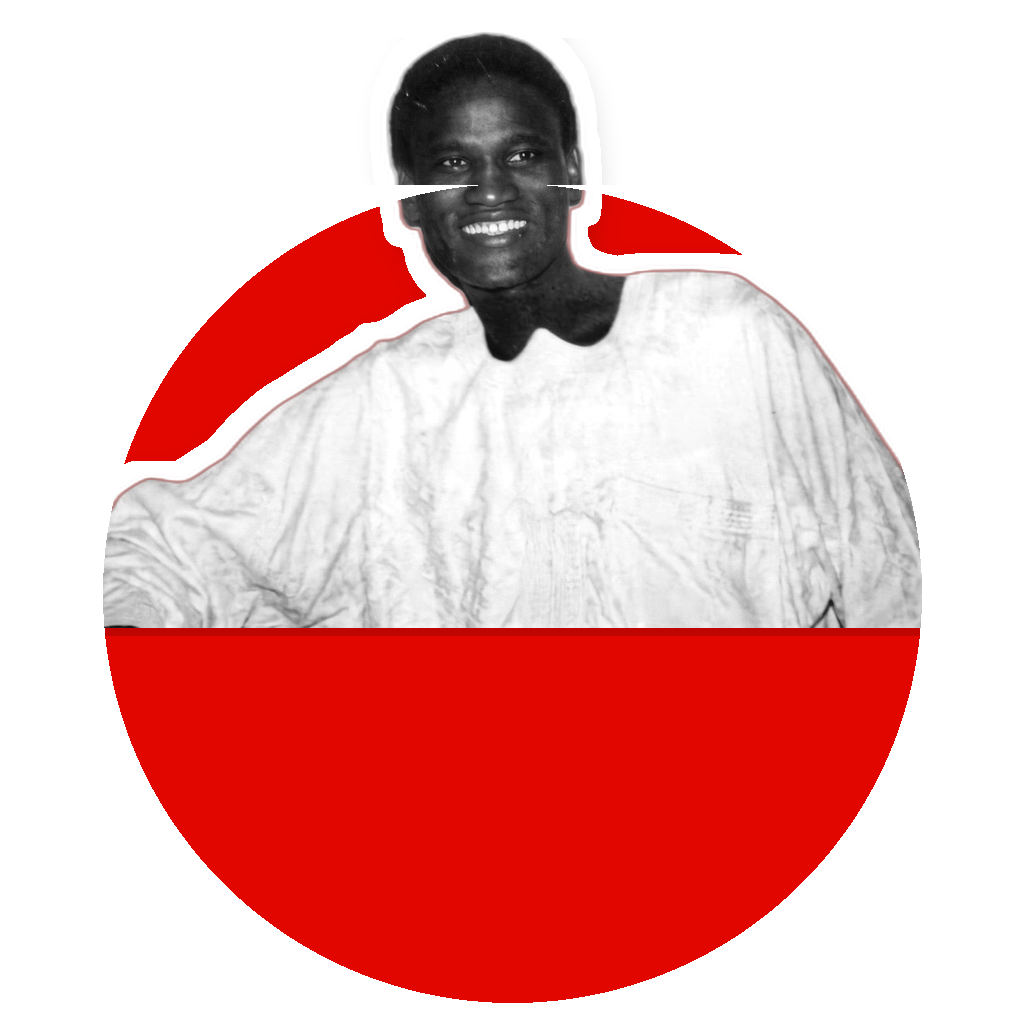
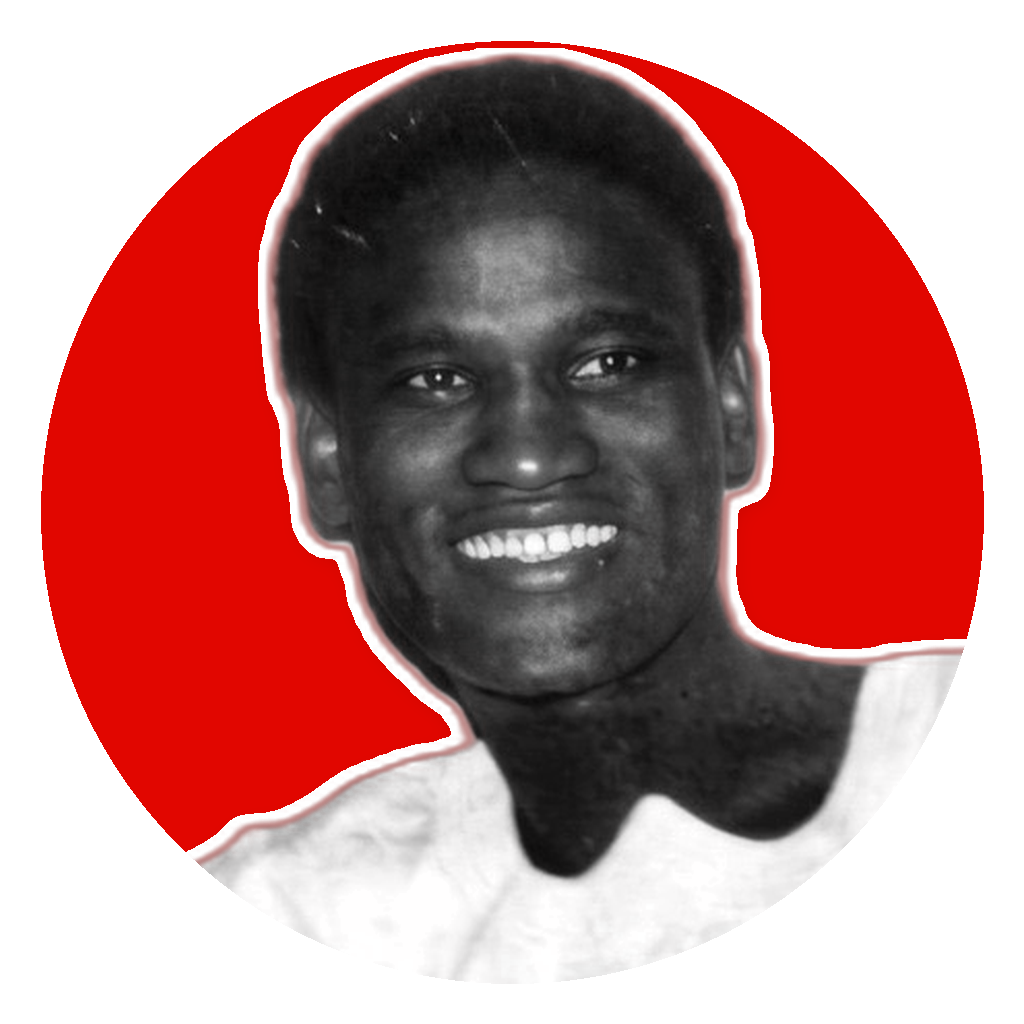
fix: keep masthead stickers inside red circle
Zoom face-forward portraits to fill the disc, bottom-align shoulders
into the lower arc, and clip silhouette + outline strictly to the circle
(no peek). Drop header peek padding/overflow.

diff --git a/src/components/Header.tsx b/src/components/Header.tsx
@@ -37,7 +37,7 @@ function MastheadPortrait({
   alt: string;
 }) {
   return (
-    <div className="relative shrink-0 overflow-visible h-14 w-14 sm:h-20 sm:w-20">
+    <div className="relative shrink-0 h-14 w-14 sm:h-20 sm:w-20">
       <Image
         src={src}
         alt={alt}
@@ -65,11 +65,11 @@ export function Header() {
   const secondary = [{ href: "/contact", label: t.nav.contact }];
 
   return (
-    <header className="sticky top-0 z-50 bg-paper/95 backdrop-blur-md border-b border-rule overflow-visible">
+    <header className="sticky top-0 z-50 bg-paper/95 backdrop-blur-md border-b border-rule">
       {/* Thin prestige top band */}
       <div className="h-1 bg-fernent-red" aria-hidden />
 
-      <div className="mx-auto max-w-6xl px-3 sm:px-4 overflow-visible">
+      <div className="mx-auto max-w-6xl px-3 sm:px-4">
         {/* Dateline + lang */}
         <div className="flex items-center justify-between gap-3 pt-2.5 pb-1">
           <div className="flex items-center gap-3 min-w-0">
@@ -121,8 +121,7 @@ export function Header() {
           <div className="rule-double-inner" />
         </div>
 
-        {/* Extra top padding so sticker peek isn't clipped by sticky header */}
-        <div className="flex items-end sm:items-center justify-center gap-2 sm:gap-4 pt-5 pb-3 sm:pt-6 sm:pb-4 overflow-visible">
+        <div className="flex items-center justify-center gap-2 sm:gap-4 py-3 sm:py-4">
           <MastheadPortrait
             src="/about/masthead-assane.png"
             alt={t.histoire.assaneName}

diff --git a/scripts/make_masthead_stickers.py b/scripts/make_masthead_stickers.py
@@ -1,6 +1,10 @@
 #!/usr/bin/env python3
 """Generate sticker-style masthead portraits matching Ferñent reference.
 
+All content (silhouette + white outline) stays INSIDE the red circle —
+no peek/overflow. Face is zoomed to fill the circle like a tight avatar;
+shoulders/chest fill the lower arc.
+
 Usage (from repo root, with /workspace/.venv-img):
   /workspace/.venv-img/bin/python scripts/make_masthead_stickers.py
 """
@@ -15,13 +19,13 @@ from rembg import new_session, remove
 
 FERNENT_RED = (225, 6, 0, 255)  # #E10600
 OUT_SIZE = 1024
-CIRCLE_DIAM = int(OUT_SIZE * 0.80)
+CIRCLE_DIAM = int(OUT_SIZE * 0.92)
 CIRCLE_CX = OUT_SIZE // 2
-CIRCLE_CY = int(OUT_SIZE * 0.58)
-OUTLINE_ITERS = 4
-SHADOW_BLUR = 14
-SHADOW_OFFSET = (5, 8)
-SHADOW_ALPHA = 100
+CIRCLE_CY = OUT_SIZE // 2
+OUTLINE_ITERS = 3
+SHADOW_BLUR = 10
+SHADOW_OFFSET = (3, 5)
+SHADOW_ALPHA = 80
 
 ABOUT = Path(__file__).resolve().parents[1] / "public" / "about"
 SOURCES = [
@@ -63,11 +67,28 @@ def crop_to_subject(rgba: Image.Image, pad: int = 2) -> Image.Image:
     return rgba.crop((x0, y0, x1, y1))
 
 
+def face_center_and_width(rgba: Image.Image) -> tuple[float, float]:
+    """Horizontal face center + head width from upper opaque span."""
+    a = np.array(rgba.split()[-1]) > 20
+    h, w = a.shape
+    row_w = a.sum(axis=1)
+    tops = np.where(row_w > max(3, int(w * 0.02)))[0]
+    if tops.size == 0:
+        return w / 2.0, w * 0.4
+    y_top = int(tops[0])
+    y1 = min(h - 1, y_top + max(8, int(h * 0.08)))
+    y2 = min(h - 1, y_top + max(16, int(h * 0.20)))
+    cols = np.where(a[y1 : y2 + 1].any(axis=0))[0]
+    if cols.size == 0:
+        return w / 2.0, w * 0.4
+    return float(cols[0] + cols[-1]) / 2.0, float(cols[-1] - cols[0] + 1)
+
+
 def dilate_alpha(alpha: Image.Image, iters: int) -> Image.Image:
     a = alpha
     for _ in range(iters):
-        a = a.filter(ImageFilter.MaxFilter(9))
-    a = a.filter(ImageFilter.GaussianBlur(1.5))
+        a = a.filter(ImageFilter.MaxFilter(7))
+    a = a.filter(ImageFilter.GaussianBlur(1.2))
     return a.point(lambda p: 255 if p > 48 else 0)
 
 
@@ -79,13 +100,46 @@ def multiply_alpha(rgba: Image.Image, mask: Image.Image) -> Image.Image:
     return Image.fromarray(out, mode="L")
 
 
+def fit_subject(cut: Image.Image, circle_r: int) -> tuple[Image.Image, int, int]:
+    """Scale + position: face large, bottom of bust on the lower arc."""
+    face_cx, face_w = face_center_and_width(cut)
+    outline_budget = OUTLINE_ITERS * 4 + 10
+    usable = float(circle_r * 2 - outline_budget * 2)
+
+    circle_top = CIRCLE_CY - circle_r
+    circle_bot = CIRCLE_CY + circle_r
+
+    # Fill disc height with overshoot so the lower arc is covered after clip.
+    scale = (usable * 1.18) / cut.height
+
+    # Ensure head is large enough for a tight avatar.
+    min_face = usable * 0.55
+    max_face = usable * 0.72
+    if face_w * scale < min_face:
+        scale = min_face / max(face_w, 1.0)
+    if face_w * scale > max_face:
+        scale = max_face / max(face_w, 1.0)
+
+    tw = max(1, int(round(cut.width * scale)))
+    th = max(1, int(round(cut.height * scale)))
+    cut = cut.resize((tw, th), Image.Resampling.LANCZOS)
+
+    paste_x = int(round(CIRCLE_CX - face_cx * scale))
+
+    # Bottom-align into the lower arc.
+    paste_y = circle_bot - cut.height + int(circle_r * 0.08)
+    min_y = circle_top + max(4, outline_budget // 3)
+    if paste_y < min_y:
+        paste_y = min_y
+
+    return cut, paste_x, paste_y
+
+
 def compose(cut: Image.Image, out_path: Path) -> None:
     cut = to_grayscale_keep_alpha(cut)
     cut = crop_to_subject(cut)
 
     circle_r = CIRCLE_DIAM // 2
-    circle_top = CIRCLE_CY - circle_r
-    circle_bot = CIRCLE_CY + circle_r
     circle_bbox = [
         CIRCLE_CX - circle_r,
         CIRCLE_CY - circle_r,
@@ -93,32 +147,7 @@ def compose(cut: Image.Image, out_path: Path) -> None:
         CIRCLE_CY + circle_r,
     ]
 
-    target_w = int(CIRCLE_DIAM * 0.90)
-    scale = target_w / cut.width
-    target_h = int(cut.height * scale)
-
-    peek_top = int(OUT_SIZE * 0.025)
-    desired_h = circle_bot - peek_top + int(OUT_SIZE * 0.02)
-    if target_h < desired_h * 0.92 or target_h > desired_h * 1.15:
-        scale = desired_h / cut.height
-        target_w = int(cut.width * scale)
-        target_h = int(cut.height * scale)
-
-    max_w = int(OUT_SIZE * 0.92)
-    if target_w > max_w:
-        scale = max_w / cut.width
-        target_w = int(cut.width * scale)
-        target_h = int(cut.height * scale)
-
-    cut = cut.resize((max(1, target_w), max(1, target_h)), Image.Resampling.LANCZOS)
-    paste_x = CIRCLE_CX - cut.width // 2
-    paste_y = peek_top
-
-    bottom = paste_y + cut.height
-    if bottom < circle_bot - 40:
-        shift = min(circle_bot - 20 - bottom, paste_y - int(OUT_SIZE * 0.02))
-        if shift > 0:
-            paste_y += shift
+    cut, paste_x, paste_y = fit_subject(cut, circle_r)
 
     canvas = Image.new("RGBA", (OUT_SIZE, OUT_SIZE), (0, 0, 0, 0))
 
@@ -148,12 +177,9 @@ def compose(cut: Image.Image, out_path: Path) -> None:
     sticker.paste(outline_img, (paste_x, paste_y), outline_img)
     sticker.paste(cut, (paste_x, paste_y), cut)
 
-    # Bottom of body clipped to red circle; head (and natural shoulder tops) peek above
+    # Strict circle clip — silhouette + white outline never peek outside.
     clip = Image.new("L", (OUT_SIZE, OUT_SIZE), 0)
-    d = ImageDraw.Draw(clip)
-    d.rectangle([0, 0, OUT_SIZE, circle_top], fill=255)
-    d.ellipse(circle_bbox, fill=255)
-
+    ImageDraw.Draw(clip).ellipse(circle_bbox, fill=255)
     sticker.putalpha(multiply_alpha(sticker, clip))
     sh_layer.putalpha(multiply_alpha(sh_layer, clip))
 
@@ -162,7 +188,7 @@ def compose(cut: Image.Image, out_path: Path) -> None:
 
     out_path.parent.mkdir(parents=True, exist_ok=True)
     canvas.save(out_path, "PNG", optimize=True)
-    print(f"Wrote {out_path} size={canvas.size}")
+    print(f"Wrote {out_path.name} subject={cut.size} paste=({paste_x},{paste_y})")
 
 
 def main() -> None:
